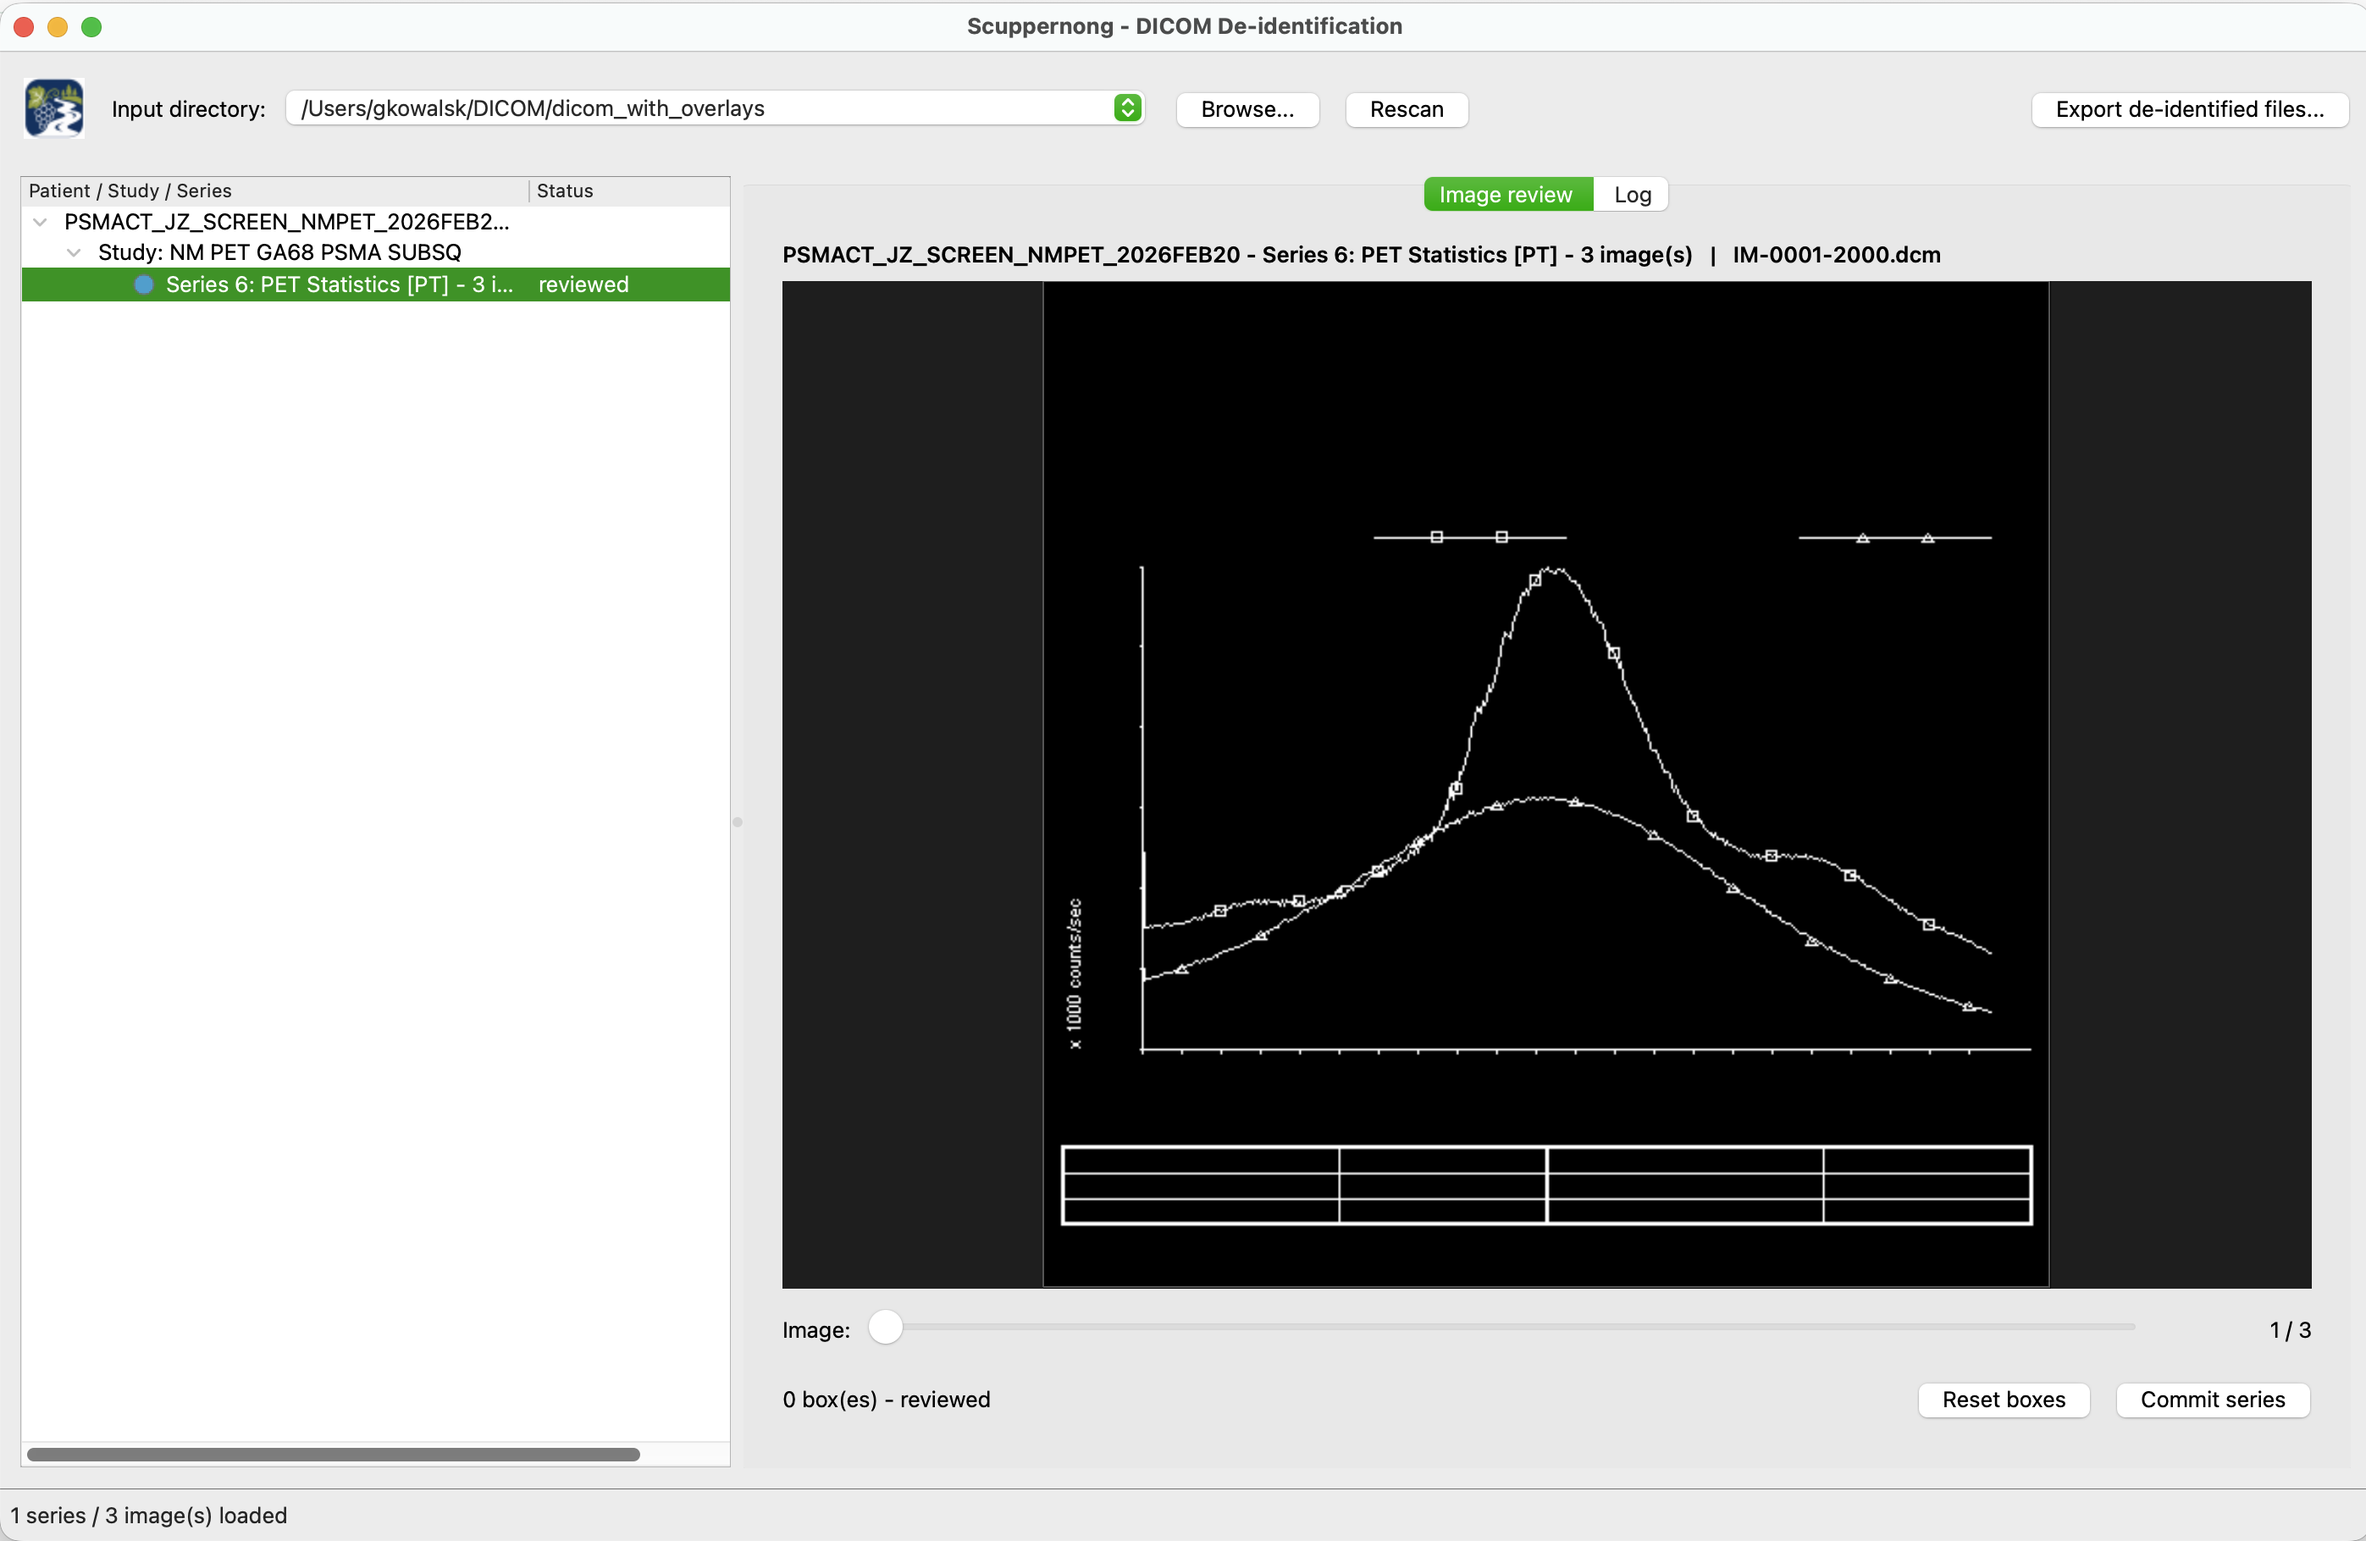
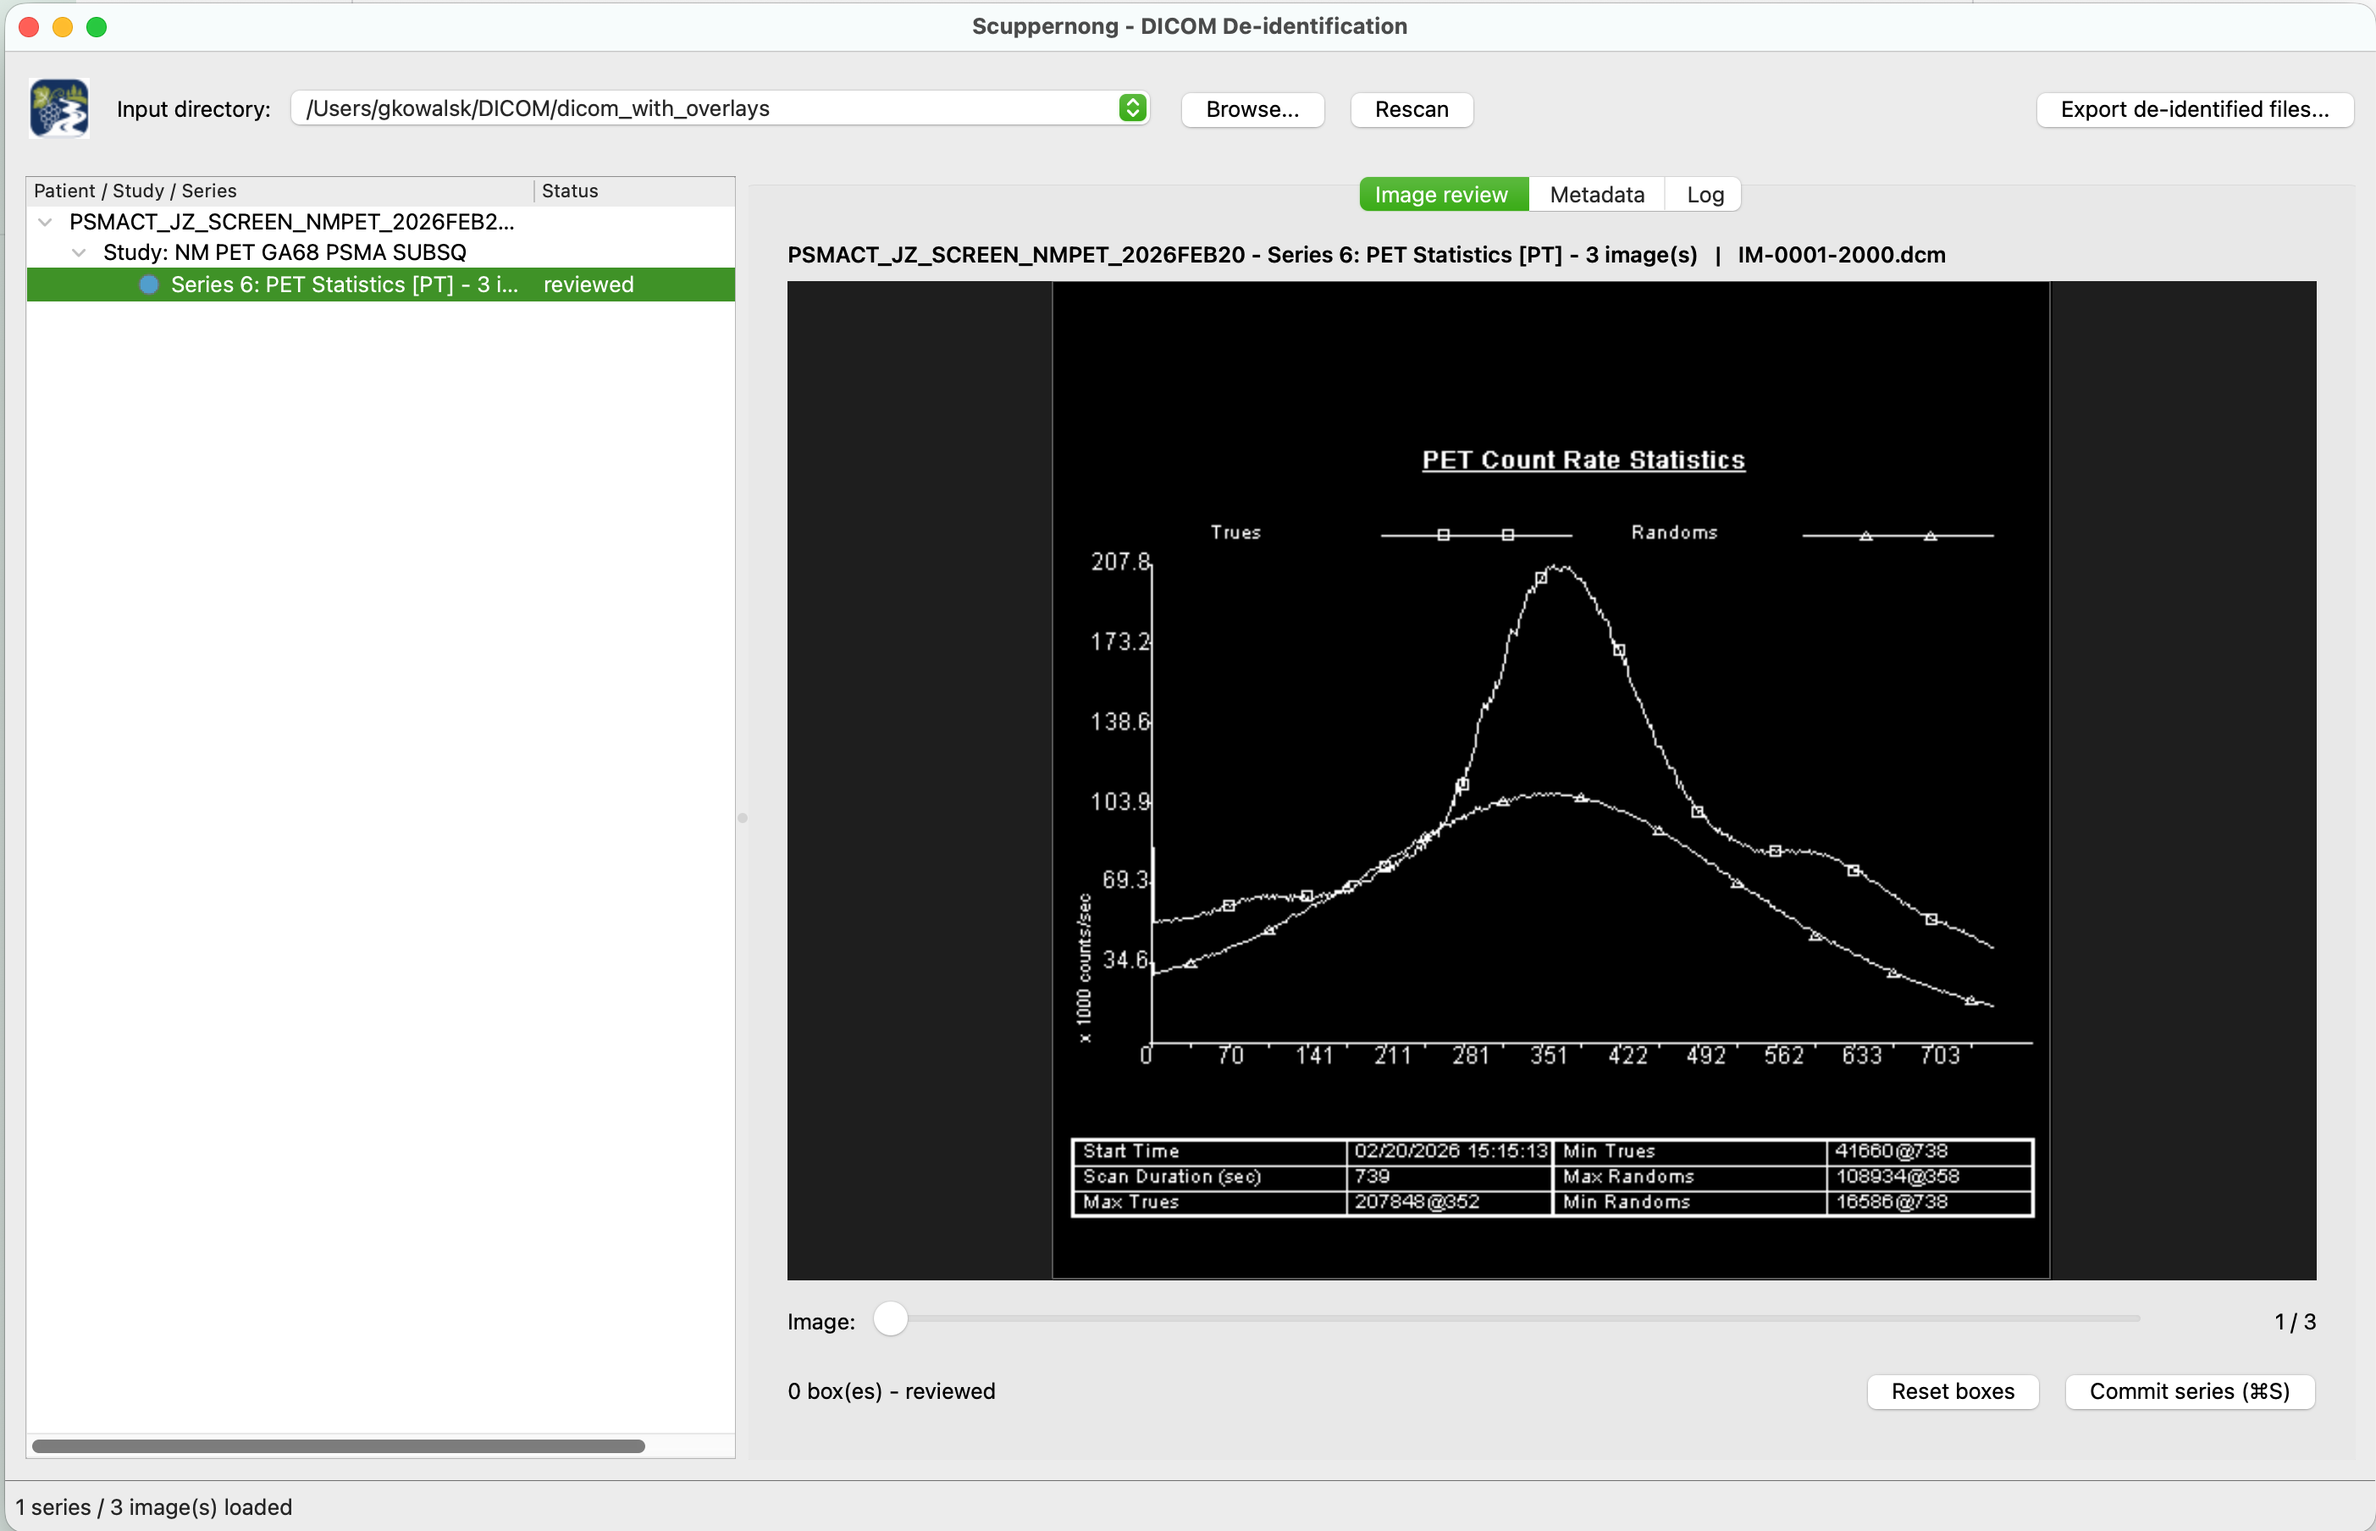
add UI screenshot to README

diff --git a/README.md b/README.md
@@ -21,6 +21,9 @@ your interpreter, pin the venv to an older Python and re-sync:
 ```bash
 uv venv --python 3.12 && uv sync
 ```
+## UI Screenshot 
+
+![Screenshot](./images/Screenshot.png)
 
 ## Layout
 
